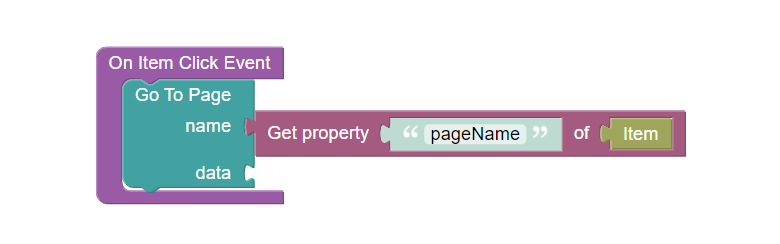
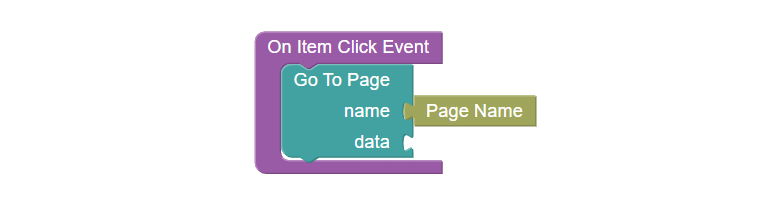
add options validator, refactor context blocks and update readme

diff --git a/components/bl-static-breadcrumbs/src/index.js b/components/bl-static-breadcrumbs/src/index.js
@@ -1,8 +1,22 @@
+import { useMemo } from 'react';
+
 const { cn } = BackendlessUI.CSSUtils;
 
 export default function StaticBreadcrumbsComponent({ component, eventHandlers, elRef }) {
   const { classList, display, style, options } = component;
   const { onItemClick, onMouseOver, onMouseOut } = eventHandlers;
+
+  const optionsValidator = useMemo(() => {
+    if (Array.isArray(options)) {
+      return options;
+    }
+
+    if (options !== undefined) {
+      console.error('Breadcrumbs options must be an array with option signature: {label: String, pageName: String}.');
+    }
+
+    return [];
+  }, [options]);
 
   if (!display) {
     return null;
@@ -10,14 +24,14 @@ export default function StaticBreadcrumbsComponent({ component, eventHandlers, e
 
   return (
     <div ref={ elRef } className={ cn('bl-customComponent-staticBreadcrumbs', classList) } style={ style }>
-      { options?.map(item => (
-        <div className="breadcrumbs-item">
+      { optionsValidator.map(({ label, pageName }) => (
+        <div className="breadcrumbs-item" key={ pageName }>
           <span
             className="breadcrumbs-item-label"
-            onClick={ () => onItemClick({ item }) }
-            onMouseOver={ () => onMouseOver({ item }) }
-            onMouseOut={ () => onMouseOut({ item }) }>
-            { item.label }
+            onClick={ () => onItemClick({ label, pageName }) }
+            onMouseOver={ () => onMouseOver({ label, pageName }) }
+            onMouseOut={ () => onMouseOut({ label, pageName }) }>
+            { label }
           </span>
         </div>
       )) }

diff --git a/components/bl-static-breadcrumbs/README.md b/components/bl-static-breadcrumbs/README.md
@@ -18,11 +18,11 @@ Customize the appearance of the breadcrumbs according to your preferences using 
 
 ## Events
 
-| Name                | Triggers                                                      | Context Blocks |
-|---------------------|---------------------------------------------------------------|----------------|
-| On Item Click Event | when a user click on the breadcrumbs item                     | Item: `Object` |
-| On Mouse Over Event | when the mouse pointer hovers over the breadcrumbs item       | Item: `Object` |
-| On Mouse Out Event  | when the mouse pointer leaves the breadcrumbs item boundaries | Item: `Object` |
+| Name                | Triggers                                                      | Context Blocks                                |
+|---------------------|---------------------------------------------------------------|-----------------------------------------------|
+| On Item Click Event | when a user click on the breadcrumbs item                     | Page Label: `String` <br> Page Name: `String` |
+| On Mouse Over Event | when the mouse pointer hovers over the breadcrumbs item       | Page Label: `String` <br> Page Name: `String` |
+| On Mouse Out Event  | when the mouse pointer leaves the breadcrumbs item boundaries | Page Label: `String` <br> Page Name: `String` |
 
 ## Styles
 
@@ -106,7 +106,7 @@ Make your breadcrumbs links to related pages:
 <summary>Try yourself</summary>
 
 ```
-<block xmlns="http://www.w3.org/1999/xhtml" type="ui_dynamic_category__app-router__goto_page" id="u[eA{Ssw#jdx$Mb[#1,l" bl_meta="{&quot;label&quot;:&quot;Dynamic Block: Go To Page&quot;}" x="179" y="105"><value name="pageName"><shadow type="text" id=".1gMhIuZ0,]~H8?Hc/;H"><field name="TEXT"></field></shadow><block type="get_object_property" id="Ghze4.pK8a8jClSfqds;"><value name="prop_name"><shadow type="text" id="mK2ztG4TY=$[G#G6)Nfx"><field name="TEXT">pageName</field></shadow></value><value name="object"><block type="root_block_ui_builder_c_1b2f2897e6984c5c6b22548d9bb18e77_onItemClick_handler_context_blocks_item" id="C{lT4i@3k*zgcWhJPR@]" bl_meta="{&quot;label&quot;:&quot;Item&quot;}"></block></value></block></value></block>
+<block xmlns="http://www.w3.org/1999/xhtml" type="ui_dynamic_category__app-router__goto_page" id="u[eA{Ssw#jdx$Mb[#1,l" bl_meta="{&quot;label&quot;:&quot;Dynamic Block: Go To Page&quot;}" x="316" y="178"><value name="pageName"><shadow type="text" id=".1gMhIuZ0,]~H8?Hc/;H"><field name="TEXT"></field></shadow><block type="root_block_ui_builder_c_1b2f2897e6984c5c6b22548d9bb18e77_onItemClick_handler_context_blocks_pageName" id="0;0v@!O)C:wv?@!!-^G7" bl_meta="{&quot;label&quot;:&quot;Page Name&quot;}"></block></value></block>
 ```
 
 </details>
